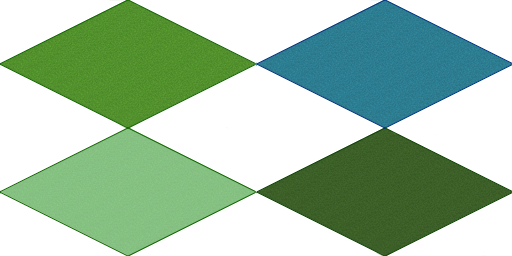
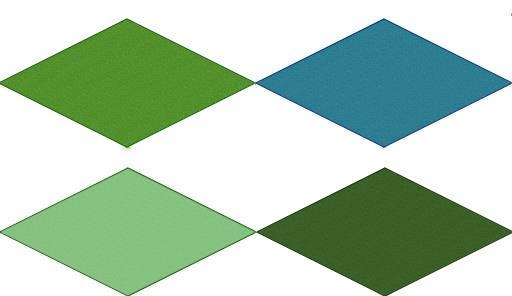
add margin 20px for plants on tile + fix player position

diff --git a/public/javascripts/_map.js b/public/javascripts/_map.js
@@ -6,6 +6,7 @@ Map = {
 
   // METHODS
   update_tile: function(data, socket) {
+    console.log("DATA RECEIVED FOR GET TILES SETTINGS : ", data);
     var tile_settings = this.get_tile_settings(data);
     if(tile_settings) {
       data.id = tile_settings.id; // keep id of the Crafty.element to keep it linked with the tiles hash
@@ -14,11 +15,11 @@ Map = {
         data.type = "my_grass";
       else // bizarre, parfois set to others_grass quand on marche dessus !
         data.type = "others_grass";
-
+      console.log("AVANT : ", Crafty(data.id));
       Crafty(data.id).removeComponent("grass, water, voided, my_grass, others_grass").addComponent(data.type);
       this.set_tile_settings(data);
-
-      //console.log("UPDATING TILE #" + data.id);
+      console.log("APRES : ", Crafty(data.id));
+      console.log("UPDATING TILE #" + data.x, data.y, data.type);
     }
   },
 
@@ -106,8 +107,10 @@ Map = {
     //console.log("SETTING PLAYER " + data.username);
     var player = this.player = Crafty.e('Player').set_socket(socket);
     Crafty.addEvent(player, Crafty.stage.elem, 'WalkingOnNewTile');
-    iso.place(data.pos_x, data.pos_y - 1, 20, player); // SOOOOO WEIRD data.pos_y -1 !!!
+    iso.place(data.pos_x, data.pos_y, 20, player);
     Crafty.viewport.follow(player);
+    player.x += (128 - 12); // CENTERING PLAYER ON TILE
+    player.y += (74 - 16);
     user = data;
     this.get_tiles_for_area(socket);
   },
@@ -124,7 +127,7 @@ Map = {
     iso.place(data.x, data.y, 1, tile);
     this.set_tile_settings(data, false); // save tile
 
-    //console.log("SETTING TILE #" + data.id);
+    //console.log("SETTING TILE #", data);
   },
 
   get_tiles_for_area: function(socket) {

diff --git a/app/libs/sockets.js b/app/libs/sockets.js
@@ -113,16 +113,26 @@ module.exports.listen = function(app){
       } else if (action_cleaned.indexOf("water") > -1){
         Tile.update({x: data.x, y: data.y}, {humidity: 100}, function(err, tiles){
           if (err) console.log(err);
-          socket.emit('update_tile', tiles[0]);
-          console.log('UPDATE TILE CROP WATER -----------------------', tiles);
+
+          Tile.findOne({x: data.x, y: data.y}, function(err, tile){
+            if (err) console.log(err);
+
+            socket.emit('update_tile', tile);
+            console.log('UPDATE TILE CROP WATER -----------------------', tile);
+          });
         });
 
       } else if (action_cleaned.indexOf("fertilize") > -1){
         Tile.update({x: data.x, y: data.y}, {fertility: 100}, function(err, tiles){
           if (err) console.log(err);
-          socket.emit('update_tile', tiles[0]);
-          console.log('UPDATE TILE CROP FERTILIZE -----------------------', tiles);
-        })
+
+          Tile.findOne({x: data.x, y: data.y}, function(err, tile){
+            if (err) console.log(err);
+
+            socket.emit('update_tile', tile);
+            console.log('UPDATE TILE CROP FERTILIZE -----------------------', tile);
+          });
+        });
 
       } else if (action_cleaned.indexOf("harvest") > -1){
         //TODO code that

diff --git a/public/javascripts/_components.js b/public/javascripts/_components.js
@@ -1,19 +1,20 @@
 Crafty.c("Tile", {
 
   init: function() {
-    this.addComponent("2D, Canvas, Mouse").areaMap([0,16], [32,0], [64,16], [32,16]);
-    this.addComponent("Collision").collision(new Crafty.polygon([0,64], [128,0], [256,64], [128,128]));
+    this.addComponent("2D, Canvas")
+    this.addComponent("Collision").collision(new Crafty.polygon([0,84], [128,20], [256,84], [128,148]));
     this.addComponent("Socketed");
   },
 
   set_owner: function(owner) {
-    //console.log("SETING OWNER");
     var attributes = iso.px2pos(this._x, this._y);
     attributes.owner_name = owner.username;
     var tile_settings = map.get_tile_settings(attributes, true);
     tile_settings.owner_name = owner.username;
     tile_settings.owner_id = owner._id;
     this.socket.emit('sync_tile', attributes);
+
+    console.log("SETING OWNER", attributes);
   }
 });
 
@@ -62,7 +63,7 @@ Crafty.c("Player", {
         tile.set_owner(user);
       }
       
-      $('#panel_control').empty().append('Walking on Tile:<br/> { x: ' + tile_settings.x + ', y: ' + tile_settings.y + ' }');
+      $('#debug').empty().append('Walking on Tile:<br/> { x: ' + tile_settings.x + ', y: ' + tile_settings.y + ' }');
     });
 
     this.bind('Moved', function(from) {

diff --git a/public/libs/crafty-src.js b/public/libs/crafty-src.js
@@ -8070,7 +8070,8 @@ Crafty.extend({
             var pos = this.pos2px(x,y)
             obj.attr({
                 x: pos.left,
-                y: pos.top+offset,
+                //y: pos.top+offset, (à voir si ca servait vraiment a qqch)
+                y: pos.top,
                 z:z
             });
             return this;

diff --git a/public/javascripts/_sprites.js b/public/javascripts/_sprites.js
@@ -1,4 +1,4 @@
-Crafty.sprite(128, 128, "images/grasstile.png", {
+Crafty.sprite(128, 148, "images/grasstile.png", {
 	grass: [0,0,2,1],
 	water: [2,0,2,1],
 	my_grass: [0,1,2,1],
